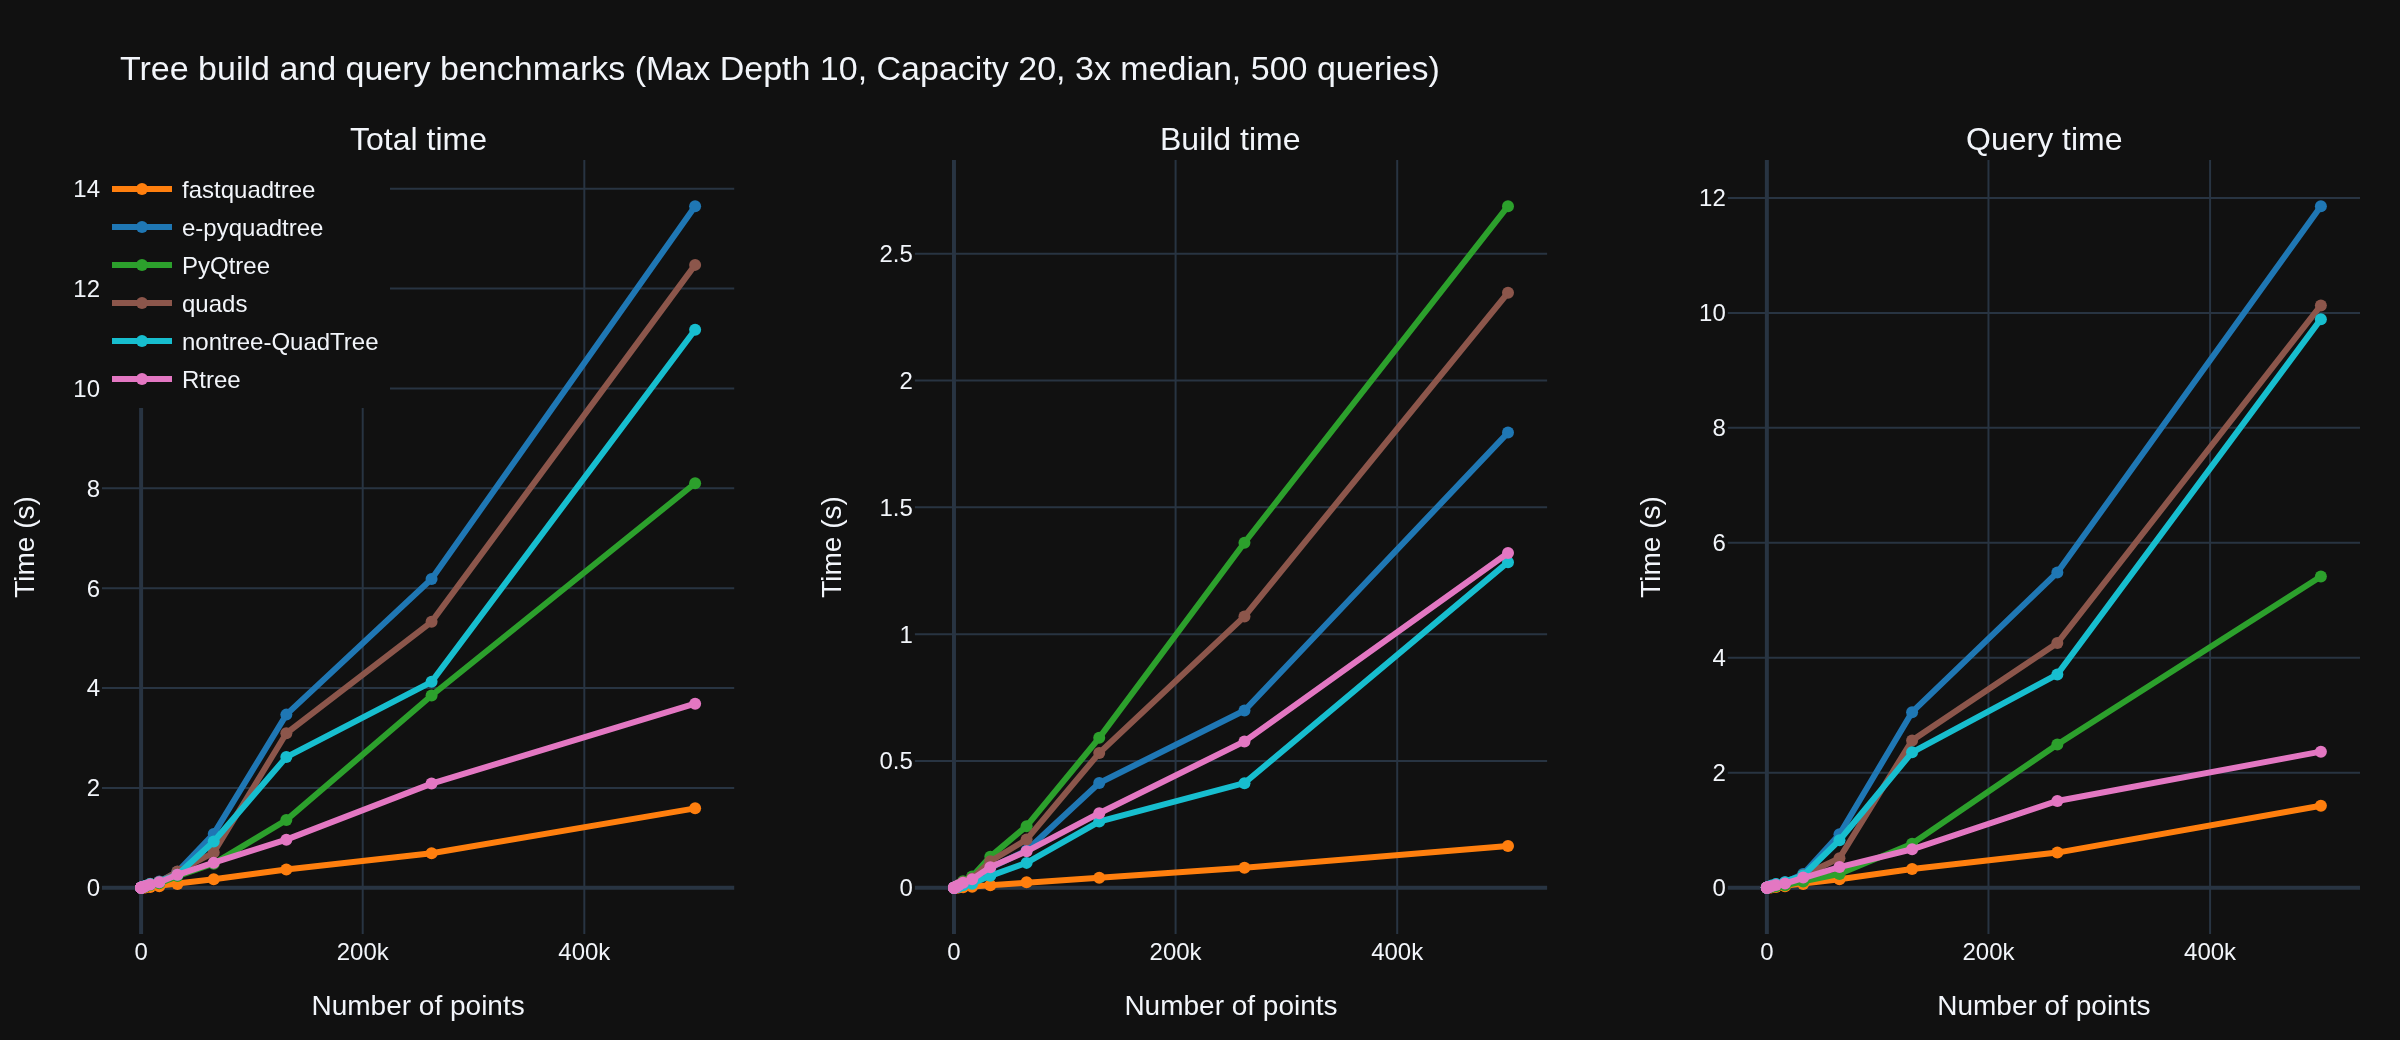
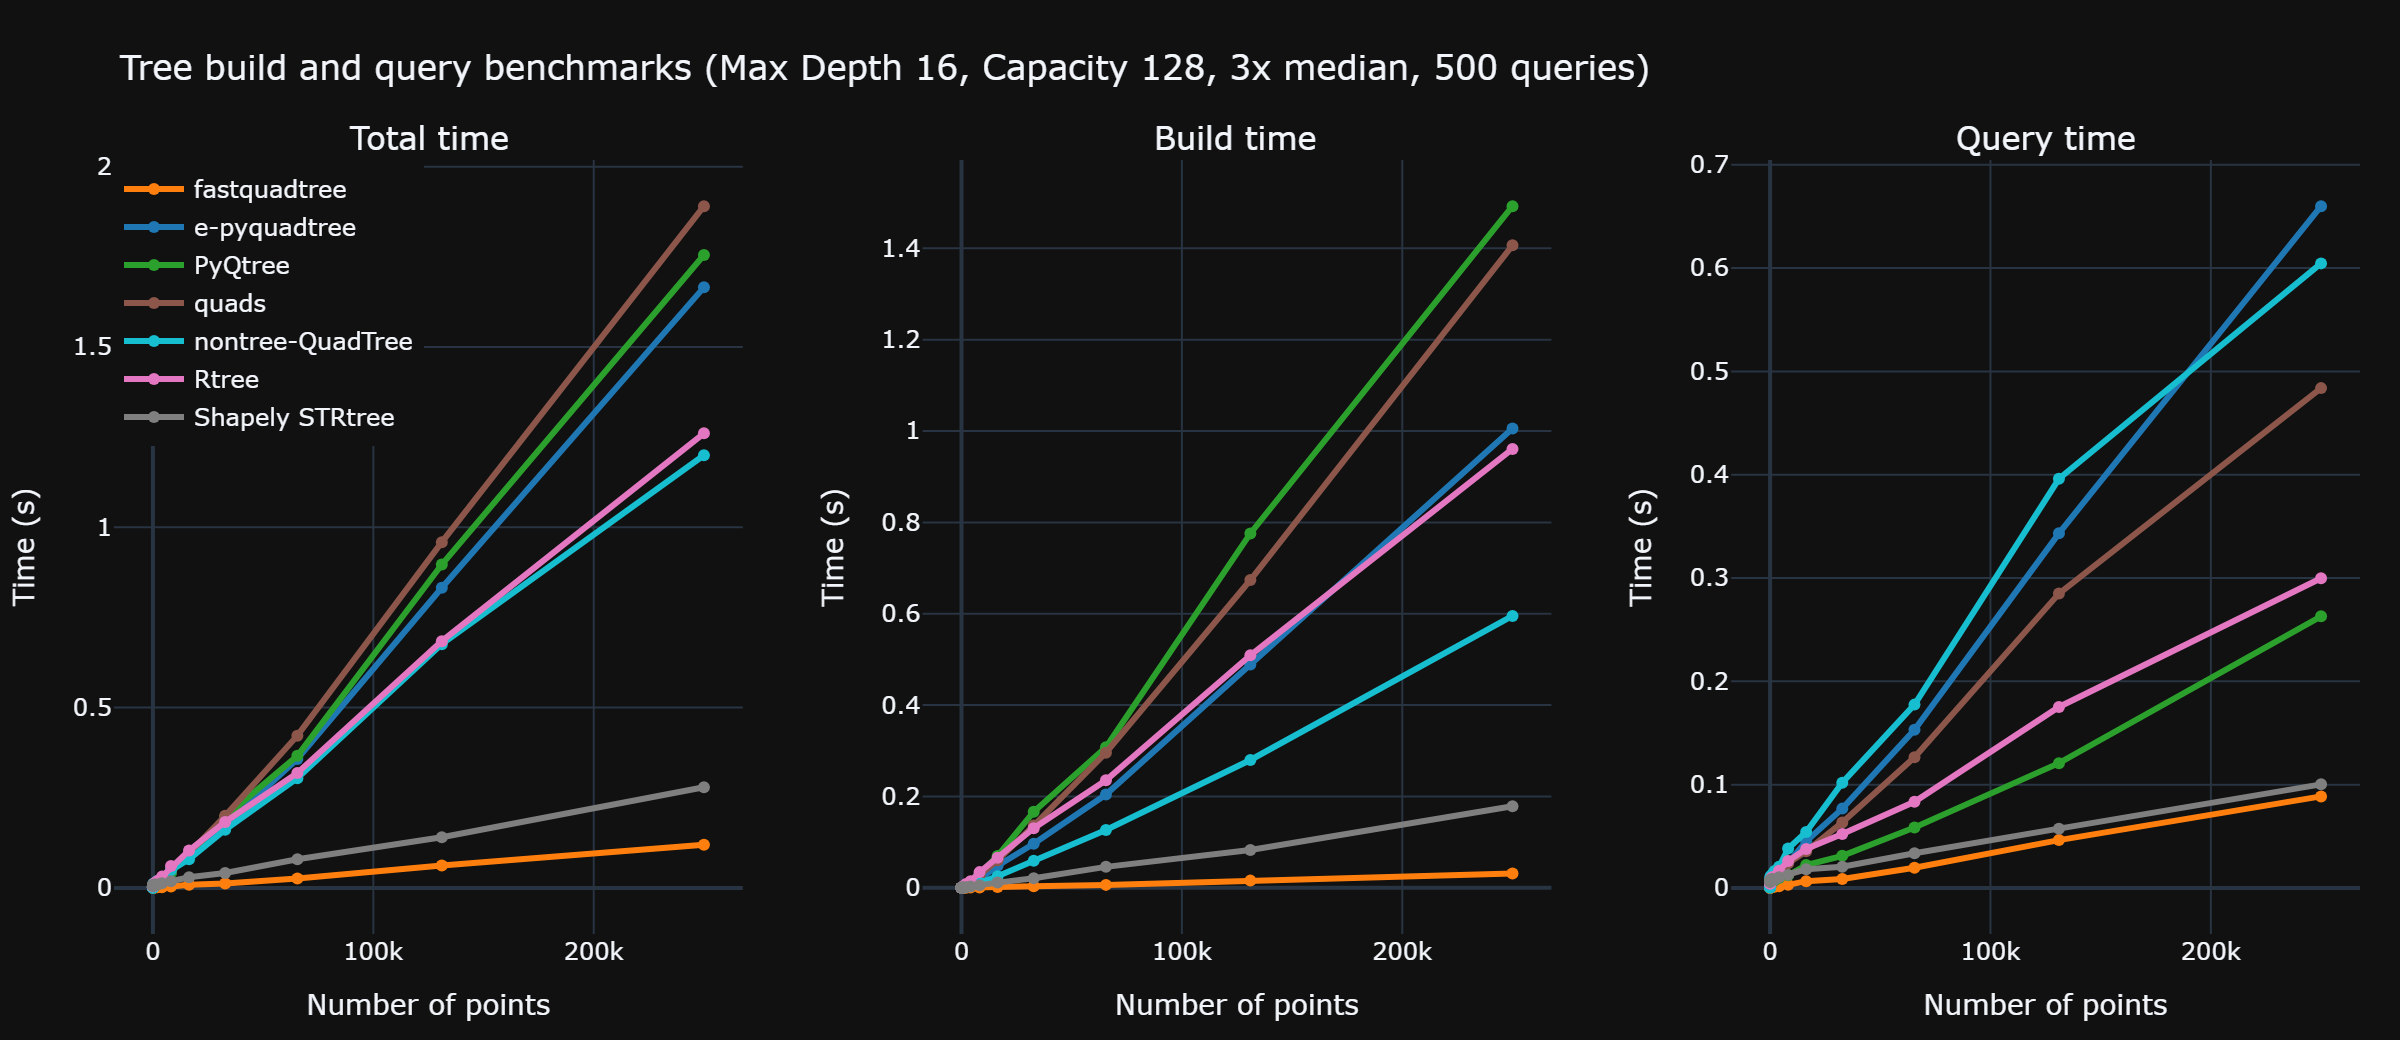
feat: major optimizations against STRtree

diff --git a/src/quadtree.rs b/src/quadtree.rs
@@ -121,26 +121,83 @@ impl QuadTree {
         self.children = Some(Box::new(kids));
     }
 
-    pub fn query(&self, range: Rect) -> Vec<Item> {
-        let mut out = Vec::new();
-        let mut stack: SmallVec<[&QuadTree; 16]> = SmallVec::new();
-        stack.push(self);
+    #[inline(always)]
+    fn rect_contains_rect(a: &Rect, b: &Rect) -> bool {
+        a.min_x <= b.min_x && a.min_y <= b.min_y &&
+        a.max_x >= b.max_x && a.max_y >= b.max_y
+    }
 
-        while let Some(node) = stack.pop() {
-            for it in &node.items {
-                if range.contains(&it.point) {
-                    out.push(*it);
+    pub fn query(&self, range: Rect) -> Vec<(u64, f32, f32)> {
+        #[derive(Copy, Clone)]
+        enum Mode { Filter, ReportAll }
+
+        // Hoist bounds for tight leaf checks
+        let rx0 = range.min_x;
+        let ry0 = range.min_y;
+        let rx1 = range.max_x;
+        let ry1 = range.max_y;
+
+        let mut out: Vec<(u64, f32, f32)> = Vec::with_capacity(128);
+        let mut stack: SmallVec<[(&QuadTree, Mode); 64]> = SmallVec::new();
+        stack.push((self, Mode::Filter));
+
+        while let Some((node, mode)) = stack.pop() {
+            match mode {
+                Mode::ReportAll => {
+                    if let Some(children) = node.children.as_ref() {
+                        // Entire subtree is inside the query.
+                        // No filtering, just recurse in ReportAll.
+                        stack.push((&children[0], Mode::ReportAll));
+                        stack.push((&children[1], Mode::ReportAll));
+                        stack.push((&children[2], Mode::ReportAll));
+                        stack.push((&children[3], Mode::ReportAll));
+                    } else {
+                        // Leaf: append all items, no per-point test
+                        let items = &node.items;
+                        out.reserve(items.len());
+                        out.extend(items.iter().map(|it| (it.id, it.point.x, it.point.y)));
+                    }
                 }
-            }
-            if let Some(children) = node.children.as_ref() {
-                // Push children that intersect the query range
-                for child in children.iter() {
-                    if range.intersects(&child.boundary) {
-                        stack.push(child);
+
+                Mode::Filter => {
+                    // Node cull
+                    if !range.intersects(&node.boundary) {
+                        continue;
+                    }
+
+                    // Full cover: switch to ReportAll
+                    if Self::rect_contains_rect(&range, &node.boundary) {
+                        stack.push((node, Mode::ReportAll));
+                        continue;
+                    }
+
+                    // Partial overlap
+                    if let Some(children) = node.children.as_ref() {
+                        // Only push intersecting children
+                        let c0 = &children[0];
+                        if range.intersects(&c0.boundary) { stack.push((c0, Mode::Filter)); }
+                        let c1 = &children[1];
+                        if range.intersects(&c1.boundary) { stack.push((c1, Mode::Filter)); }
+                        let c2 = &children[2];
+                        if range.intersects(&c2.boundary) { stack.push((c2, Mode::Filter)); }
+                        let c3 = &children[3];
+                        if range.intersects(&c3.boundary) { stack.push((c3, Mode::Filter)); }
+                    } else {
+                        // Leaf scan with tight predicate
+                        let items = &node.items;
+                        // Reserve a little to reduce reallocs if many will pass
+                        out.reserve(items.len().min(64));
+                        for it in items {
+                            let p = &it.point;
+                            if p.x >= rx0 && p.x < rx1 && p.y >= ry0 && p.y < ry1 {
+                                out.push((it.id, p.x, p.y));
+                            }
+                        }
                     }
                 }
             }
         }
+
         out
     }
 

diff --git a/benchmarks/quadtree_bench/engines.py b/benchmarks/quadtree_bench/engines.py
@@ -7,10 +7,13 @@ allowing fair comparison of their performance characteristics.
 
 from typing import Any, Callable, Dict, List, Optional, Tuple
 
+import numpy as np
 from pyqtree import Index as PyQTree  # Pyqtree
 
 # Built-in engines (always available in this repo)
 from pyquadtree.quadtree import QuadTree as EPyQuadTree  # e-pyquadtree
+from shapely import box as shp_box, points  # Shapely 2.x
+from shapely.strtree import STRtree
 
 from fastquadtree import QuadTree as RustQuadTree  # fastquadtree
 
@@ -243,13 +246,8 @@ def _create_strtree_engine(
 ) -> Optional[Engine]:
     """Create engine adapter for Shapely STRtree (optional)."""
 
-    from shapely import box as shp_box, points  # Shapely 2.x
-    from shapely.strtree import STRtree
-
     def build(points_list: List[Tuple[int, int]]):
         # Build geometries efficiently
-
-        import numpy as np
 
         xs = np.fromiter(
             (x for x, _ in points_list), dtype="float32", count=len(points_list)
@@ -296,15 +294,15 @@ def get_engines(
     # Always available engines
     engines = {
         "fastquadtree": _create_fastquadtree_engine(bounds, max_points, max_depth),
-        #      "e-pyquadtree": _create_e_pyquadtree_engine(bounds, max_points, max_depth),
+        "e-pyquadtree": _create_e_pyquadtree_engine(bounds, max_points, max_depth),
         "PyQtree": _create_pyqtree_engine(bounds, max_points, max_depth),
         #    "Brute force": _create_brute_force_engine(bounds, max_points, max_depth),  # Brute force doesn't scale well on the graphs so omit it from the main set
     }
 
     # Optional engines (only include if import succeeded)
     optional_engines = [
-        #       _create_quads_engine,
-        #       _create_nontree_engine,
+        _create_quads_engine,
+        _create_nontree_engine,
         _create_rtree_engine,
         _create_strtree_engine,
     ]

diff --git a/benchmarks/quadtree_bench/runner.py b/benchmarks/quadtree_bench/runner.py
@@ -23,12 +23,12 @@ class BenchmarkConfig:
     """Configuration for benchmark runs."""
 
     bounds: Tuple[int, int, int, int] = (0, 0, 1000, 1000)
-    max_points: int = 20  # node capacity where supported
-    max_depth: int = 10  # depth cap for fairness where supported
-    n_queries: int = 500  # queries per experiment
+    max_points: int = 64  # node capacity where supported
+    max_depth: int = 1_000  # depth cap for fairness where supported
+    n_queries: int = 100  # queries per experiment
     repeats: int = 3  # median over repeats
     rng_seed: int = 42  # random seed for reproducibility
-    max_experiment_points: int = 500_000
+    max_experiment_points: int = 100_000
 
     def __post_init__(self):
         """Generate experiment point sizes."""
@@ -69,8 +69,8 @@ class BenchmarkRunner:
         for _ in range(m):
             x = rng.randint(x_min, x_max)
             y = rng.randint(y_min, y_max)
-            w = rng.randint(0, x_max - x)
-            h = rng.randint(0, y_max - y)
+            w = rng.randint(0, x_max - x) // rng.randint(1, 8)
+            h = rng.randint(0, y_max - y) // rng.randint(1, 8)
             queries.append((x, y, x + w, y + h))
         return queries
 
@@ -306,3 +306,12 @@ class BenchmarkRunner:
             print(f"| {name:12} | {fmt(b)} | {fmt(q)} | {fmt(t)} | {rel_speed(name)} |")
 
         print("")
+
+        # Config table
+        print("#### Benchmark Configuration")
+        print("| Parameter | Value |")
+        print("|---|---:|")
+        print(f"| Bounds | {config.bounds} |")
+        print(f"| Max points per node | {config.max_points} |")
+        print(f"| Max depth | {config.max_depth} |")
+        print(f"| Queries per experiment | {config.n_queries} |")

diff --git a/src/lib.rs b/src/lib.rs
@@ -7,7 +7,7 @@ pub use crate::geom::{Point, Rect, dist_sq_point_to_rect, dist_sq_points};
 pub use crate::quadtree::{Item, QuadTree};
 
 use pyo3::prelude::*;
-use pyo3::types::{PyList, PyTuple};
+use pyo3::types::{PyList};
 
 fn item_to_tuple(it: Item) -> (u64, f32, f32) {
     (it.id, it.point.x, it.point.y)
@@ -57,21 +57,11 @@ impl PyQuadTree {
     // Public behavior is unchanged: returns list[(id, x, y)].
     pub fn query<'py>(&self, py: Python<'py>, rect: (f32, f32, f32, f32)) -> Bound<'py, PyList> {
         let (min_x, min_y, max_x, max_y) = rect;
-        let items = self.inner.query(Rect { min_x, min_y, max_x, max_y }); // Vec<Item>
-
-        // Preallocate to reduce re-allocations
-        let mut objs: Vec<PyObject> = Vec::with_capacity(items.len());
-        for it in items {
-            let tup = PyTuple::new_bound(py, &[
-                it.id.into_py(py),
-                it.point.x.into_py(py),
-                it.point.y.into_py(py),
-            ]);
-            objs.push(tup.into_py(py));
-        }
-
-        PyList::new_bound(py, &objs)
+        let tuples = self.inner.query(Rect { min_x, min_y, max_x, max_y });
+        // PyO3 will turn Vec<(u64,f32,f32)> into a Python list of tuples
+        PyList::new_bound(py, &tuples)
     }
+
 
     pub fn nearest_neighbor(&self, xy: (f32, f32)) -> Option<(u64, f32, f32)> {
         let (x, y) = xy;

diff --git a/tests/test_delete.rs b/tests/test_delete.rs
@@ -166,7 +166,7 @@ fn test_delete_preserves_other_operations() {
     let query_rect = Rect { min_x: 5.0, min_y: 5.0, max_x: 25.0, max_y: 25.0 };
     let results = tree.query(query_rect);
     assert_eq!(results.len(), 1); // Should only find point (10,10)
-    assert_eq!(results[0].id, 1);
+    assert_eq!(results[0].0, 1);
     
     // Test nearest neighbor
     let nearest = tree.nearest_neighbor(Point { x: 15.0, y: 15.0 });
@@ -230,7 +230,7 @@ fn test_delete_multiple_items_same_location() {
     assert_eq!(results.len(), 2);
     
     // Verify we can find both remaining items
-    let ids: Vec<u64> = results.iter().map(|item| item.id).collect();
+    let ids: Vec<u64> = results.iter().map(|item| item.0).collect();
     assert!(ids.contains(&10));
     assert!(ids.contains(&30));
     assert!(!ids.contains(&20)); // Should be deleted

diff --git a/benchmarks/quadtree_bench/main.py b/benchmarks/quadtree_bench/main.py
@@ -25,10 +25,10 @@ def main():
     parser.add_argument(
         "--max-points",
         type=int,
-        default=20,
+        default=128,
         help="Maximum points per node before splitting",
     )
-    parser.add_argument("--max-depth", type=int, default=10, help="Maximum tree depth")
+    parser.add_argument("--max-depth", type=int, default=16, help="Maximum tree depth")
     parser.add_argument(
         "--n-queries", type=int, default=500, help="Number of queries per experiment"
     )
@@ -41,7 +41,7 @@ def main():
     parser.add_argument(
         "--max-experiment-points",
         type=int,
-        default=500_000,
+        default=250_000,
         help="Maximum number of points in largest experiment",
     )
     parser.add_argument(

diff --git a/tests/query.rs b/tests/query.rs
@@ -4,8 +4,8 @@ fn r(x0: f32, y0: f32, x1: f32, y1: f32) -> Rect {
     Rect { min_x: x0, min_y: y0, max_x: x1, max_y: y1 }
 }
 fn pt(x: f32, y: f32) -> Point { Point { x, y } }
-fn ids(v: &[Item]) -> Vec<u64> {
-    let mut out: Vec<u64> = v.iter().map(|it| it.id).collect();
+fn ids(v: &Vec<(u64, f32, f32)>) -> Vec<u64> {
+    let mut out: Vec<u64> = v.iter().map(|it| it.0).collect();
     out.sort_unstable();
     out
 }

diff --git a/tests/unconventional_bounds.rs b/tests/unconventional_bounds.rs
@@ -12,8 +12,8 @@ fn item(id: u64, x: f32, y: f32) -> Item {
     Item { id, point: pt(x, y) }
 }
 
-fn ids(v: &[Item]) -> Vec<u64> {
-    let mut out: Vec<u64> = v.iter().map(|it| it.id).collect();
+fn ids(v: &Vec<(u64, f32, f32)>) -> Vec<u64> {
+    let mut out: Vec<u64> = v.iter().map(|it| it.0).collect();
     out.sort_unstable();
     out
 }

diff --git a/pysrc/fastquadtree/__init__.py b/pysrc/fastquadtree/__init__.py
@@ -259,7 +259,7 @@ class QuadTree:
 
         if self._items is None:
             raise ValueError("Cannot return result as item with track_objects=False")
-        id_, x, y = t
+        id_, _x, _y = t
         item = self._items.by_id(id_)
         if item is None:
             raise RuntimeError(

diff --git a/README.md b/README.md
@@ -35,18 +35,27 @@ fastquadtree **outperforms** all other quadtree Python packages, including the R
 ![Throughput](https://raw.githubusercontent.com/Elan456/fastquadtree/main/assets/quadtree_bench_throughput.png)
 
 ### Summary (largest dataset, PyQtree baseline)
-- Points: **500,000**, Queries: **500**
+- Points: **250,000**, Queries: **500**
 --------------------
-- Fastest total: **fastquadtree** at **1.591 s**
+- Fastest total: **fastquadtree** at **0.120 s**
 
 | Library | Build (s) | Query (s) | Total (s) | Speed vs PyQtree |
 |---|---:|---:|---:|---:|
-| fastquadtree | 0.165 | 1.427 | 1.591 | 5.09× |
-| Rtree        | 1.320 | 2.369 | 3.688 | 2.20× |
-| PyQtree      | 2.687 | 5.415 | 8.102 | 1.00× |
-| nontree-QuadTree | 1.284 | 9.891 | 11.175 | 0.73× |
-| quads        | 2.346 | 10.129 | 12.475 | 0.65× |
-| e-pyquadtree | 1.795 | 11.855 | 13.650 | 0.59× |
+| fastquadtree | 0.031 | 0.089 | 0.120 | 14.64× |
+| Shapely STRtree | 0.179 | 0.100 | 0.279 | 6.29× |
+| nontree-QuadTree | 0.595 | 0.605 | 1.200 | 1.46× |
+| Rtree        | 0.961 | 0.300 | 1.261 | 1.39× |
+| e-pyquadtree | 1.005 | 0.660 | 1.665 | 1.05× |
+| PyQtree      | 1.492 | 0.263 | 1.755 | 1.00× |
+| quads        | 1.407 | 0.484 | 1.890 | 0.93× |
+
+#### Benchmark Configuration
+| Parameter | Value |
+|---|---:|
+| Bounds | (0, 0, 1000, 1000) |
+| Max points per node | 128 |
+| Max depth | 16 |
+| Queries per experiment | 500 |
 
 ## Install
 
